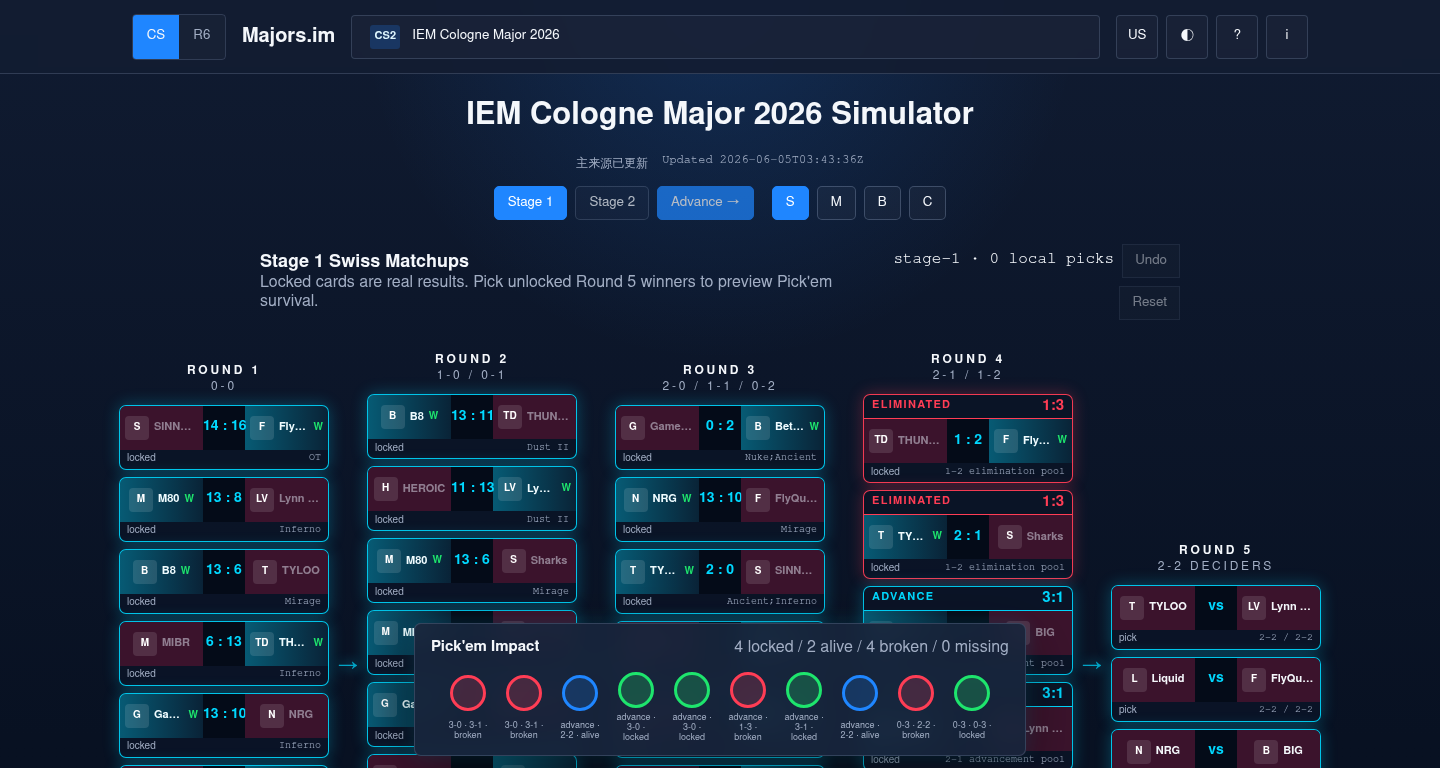
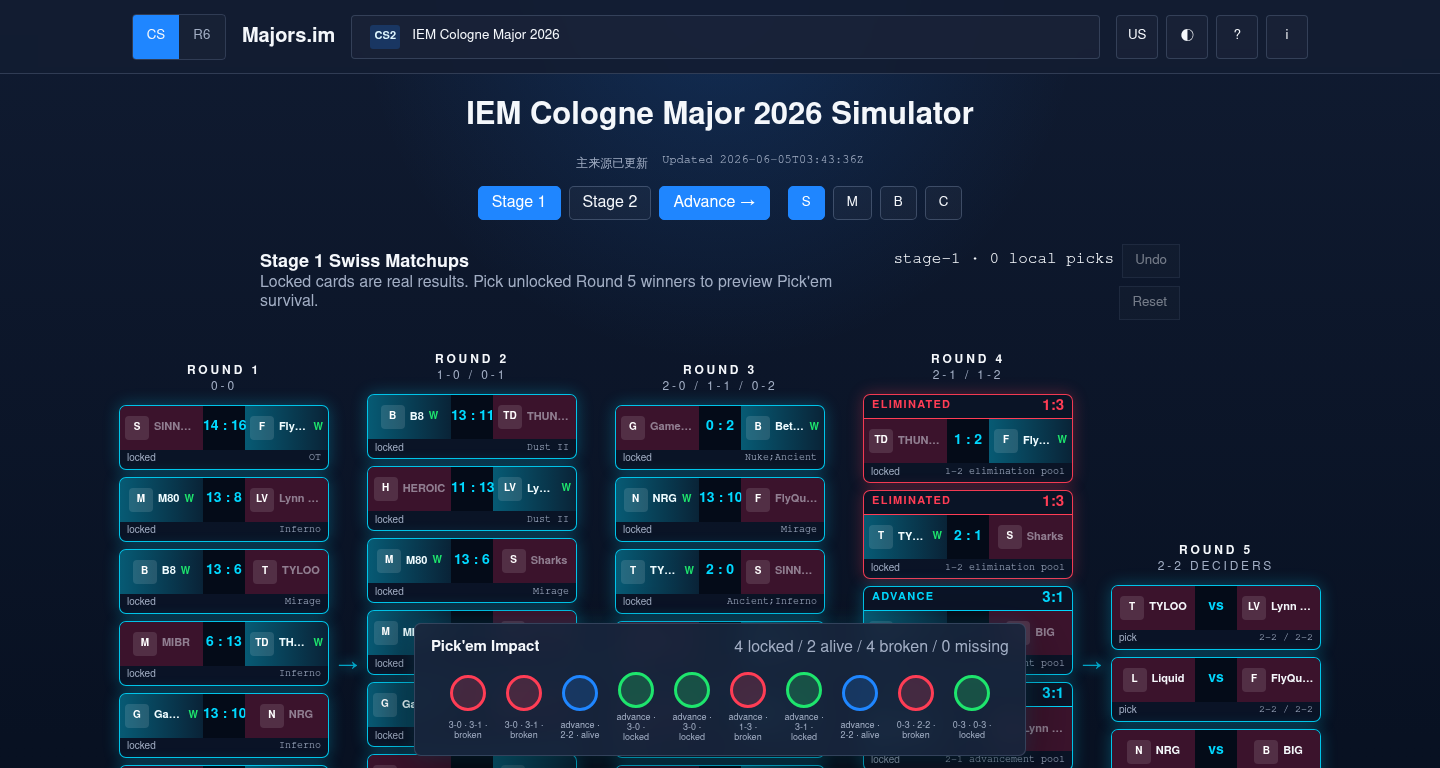
feat: add stage navigation placeholders

Changed region(s): [[0.3125, 0.2188, 0.6562, 0.3125]]

diff --git a/site/styles.css b/site/styles.css
@@ -313,12 +313,16 @@ nav a:focus {
 .advance-button,
 .view-switcher button {
   min-height: 34px;
+  display: inline-flex;
+  align-items: center;
+  justify-content: center;
   border: 1px solid rgba(145, 164, 197, 0.32);
   border-radius: 5px;
   background: rgba(255, 255, 255, 0.03);
   color: var(--text);
   padding: 0 13px;
   cursor: pointer;
+  text-decoration: none;
 }
 
 .stage-tab.active,
@@ -333,6 +337,72 @@ nav a:focus {
 .advance-button:disabled {
   opacity: 0.7;
   cursor: not-allowed;
+}
+
+.stage-tab:not(.active):hover,
+.stage-tab:not(.active):focus,
+.advance-button:not(.active):hover,
+.advance-button:not(.active):focus,
+.view-switcher button:not(.active):hover,
+.view-switcher button:not(.active):focus {
+  border-color: rgba(0, 216, 255, 0.66);
+  background: rgba(0, 216, 255, 0.08);
+}
+
+.future-stage-page {
+  width: min(920px, 100%);
+  margin: 34px auto 0;
+  display: grid;
+  place-items: center;
+}
+
+.future-stage-card {
+  width: 100%;
+  min-height: 280px;
+  display: grid;
+  align-content: center;
+  gap: 16px;
+  border: 1px solid rgba(0, 216, 255, 0.45);
+  border-radius: 8px;
+  background:
+    linear-gradient(135deg, rgba(31, 134, 255, 0.14), transparent 52%),
+    rgba(18, 28, 49, 0.82);
+  box-shadow: 0 0 22px rgba(0, 216, 255, 0.16);
+  padding: 34px;
+}
+
+.future-stage-kicker {
+  color: var(--cyan);
+  font-size: 12px;
+  font-weight: 800;
+  letter-spacing: 0.16em;
+  text-transform: uppercase;
+}
+
+.future-stage-card h2,
+.future-stage-card p {
+  margin: 0;
+}
+
+.future-stage-card h2 {
+  font-size: 30px;
+}
+
+.future-stage-card p {
+  max-width: 620px;
+  color: var(--muted);
+  line-height: 1.6;
+}
+
+.future-stage-meta {
+  display: flex;
+  align-items: center;
+  justify-content: space-between;
+  gap: 16px;
+  flex-wrap: wrap;
+  margin-top: 8px;
+  color: var(--muted);
+  font-size: 13px;
 }
 
 .matchup-header {

diff --git a/site/src/render.js b/site/src/render.js
@@ -16,15 +16,7 @@ export function renderApp(root, data, handlers) {
 
 export function renderPredictor(root, stage, handlers, pickemRuntime = null) {
   if (stage.empty_state) {
-    root.innerHTML = `
-      <div class="panel-head">
-        <div>
-          <h2>${escapeHtml(stage.empty_state.title)}</h2>
-          <p class="muted">${escapeHtml(stage.empty_state.message)}</p>
-        </div>
-        <span class="mono muted">${escapeHtml(stage.empty_state.next_update)}</span>
-      </div>
-    `;
+    root.innerHTML = renderFutureStage(stage);
     return;
   }
   if (stage.format === "swiss") {
@@ -75,19 +67,7 @@ function renderSwissWorkspace(stage, runtime) {
   const boardRounds = roundsForBoard(stage);
   return `
     <div class="matchup-shell">
-      <div class="stage-control-row">
-        <div class="stage-tabs" aria-label="Stage controls">
-          <button class="stage-tab active" type="button">Stage 1</button>
-          <button class="stage-tab" type="button" disabled>Stage 2</button>
-          <button class="advance-button" type="button" disabled>Advance →</button>
-        </div>
-        <div class="view-switcher" aria-label="View switcher">
-          <button class="active" type="button" title="Simple View">S</button>
-          <button type="button" title="Minimal View">M</button>
-          <button type="button" title="Bracket View">B</button>
-          <button type="button" title="Classic View">C</button>
-        </div>
-      </div>
+      ${renderStageControls(stage.stage_id)}
       <div class="matchup-header">
         <div>
           <h2>Stage 1 Swiss Matchups</h2>
@@ -117,6 +97,44 @@ function renderSwissWorkspace(stage, runtime) {
         ${renderRecordGroup("Live", groups.live, "status-warn")}
         ${renderRecordGroup("Eliminated", groups.eliminated, "status-bad")}
       </section>
+    </div>
+  `;
+}
+
+function renderFutureStage(stage) {
+  return `
+    <div class="matchup-shell">
+      ${renderStageControls(stage.stage_id)}
+      <section class="future-stage-page" aria-label="${escapeHtml(stage.stage_id)} status">
+        <div class="future-stage-card">
+          <span class="future-stage-kicker">${escapeHtml(stage.stage_id)} · ${escapeHtml(stage.format)} · ${escapeHtml(stage.status)}</span>
+          <h2>${escapeHtml(stage.empty_state.title)}</h2>
+          <p>${escapeHtml(stage.empty_state.message)}</p>
+          <div class="future-stage-meta">
+            <span>Only IEM Cologne Major 2026 data is shown here.</span>
+            <span class="mono">${escapeHtml(stage.empty_state.next_update)}</span>
+          </div>
+        </div>
+      </section>
+    </div>
+  `;
+}
+
+function renderStageControls(currentStageId) {
+  const current = currentStageId || "stage-1";
+  return `
+    <div class="stage-control-row">
+      <div class="stage-tabs" aria-label="Stage controls">
+        <a class="stage-tab ${current === "stage-1" ? "active" : ""}" href="#/stage/1">Stage 1</a>
+        <a class="stage-tab ${current === "stage-2" ? "active" : ""}" href="#/stage/2">Stage 2</a>
+        <a class="advance-button ${current === "stage-3" ? "active" : ""}" href="#/stage/3">Advance →</a>
+      </div>
+      <div class="view-switcher" aria-label="View switcher">
+        <button class="active" type="button" title="Simple View">S</button>
+        <button type="button" title="Minimal View">M</button>
+        <button type="button" title="Bracket View">B</button>
+        <button type="button" title="Classic View">C</button>
+      </div>
     </div>
   `;
 }